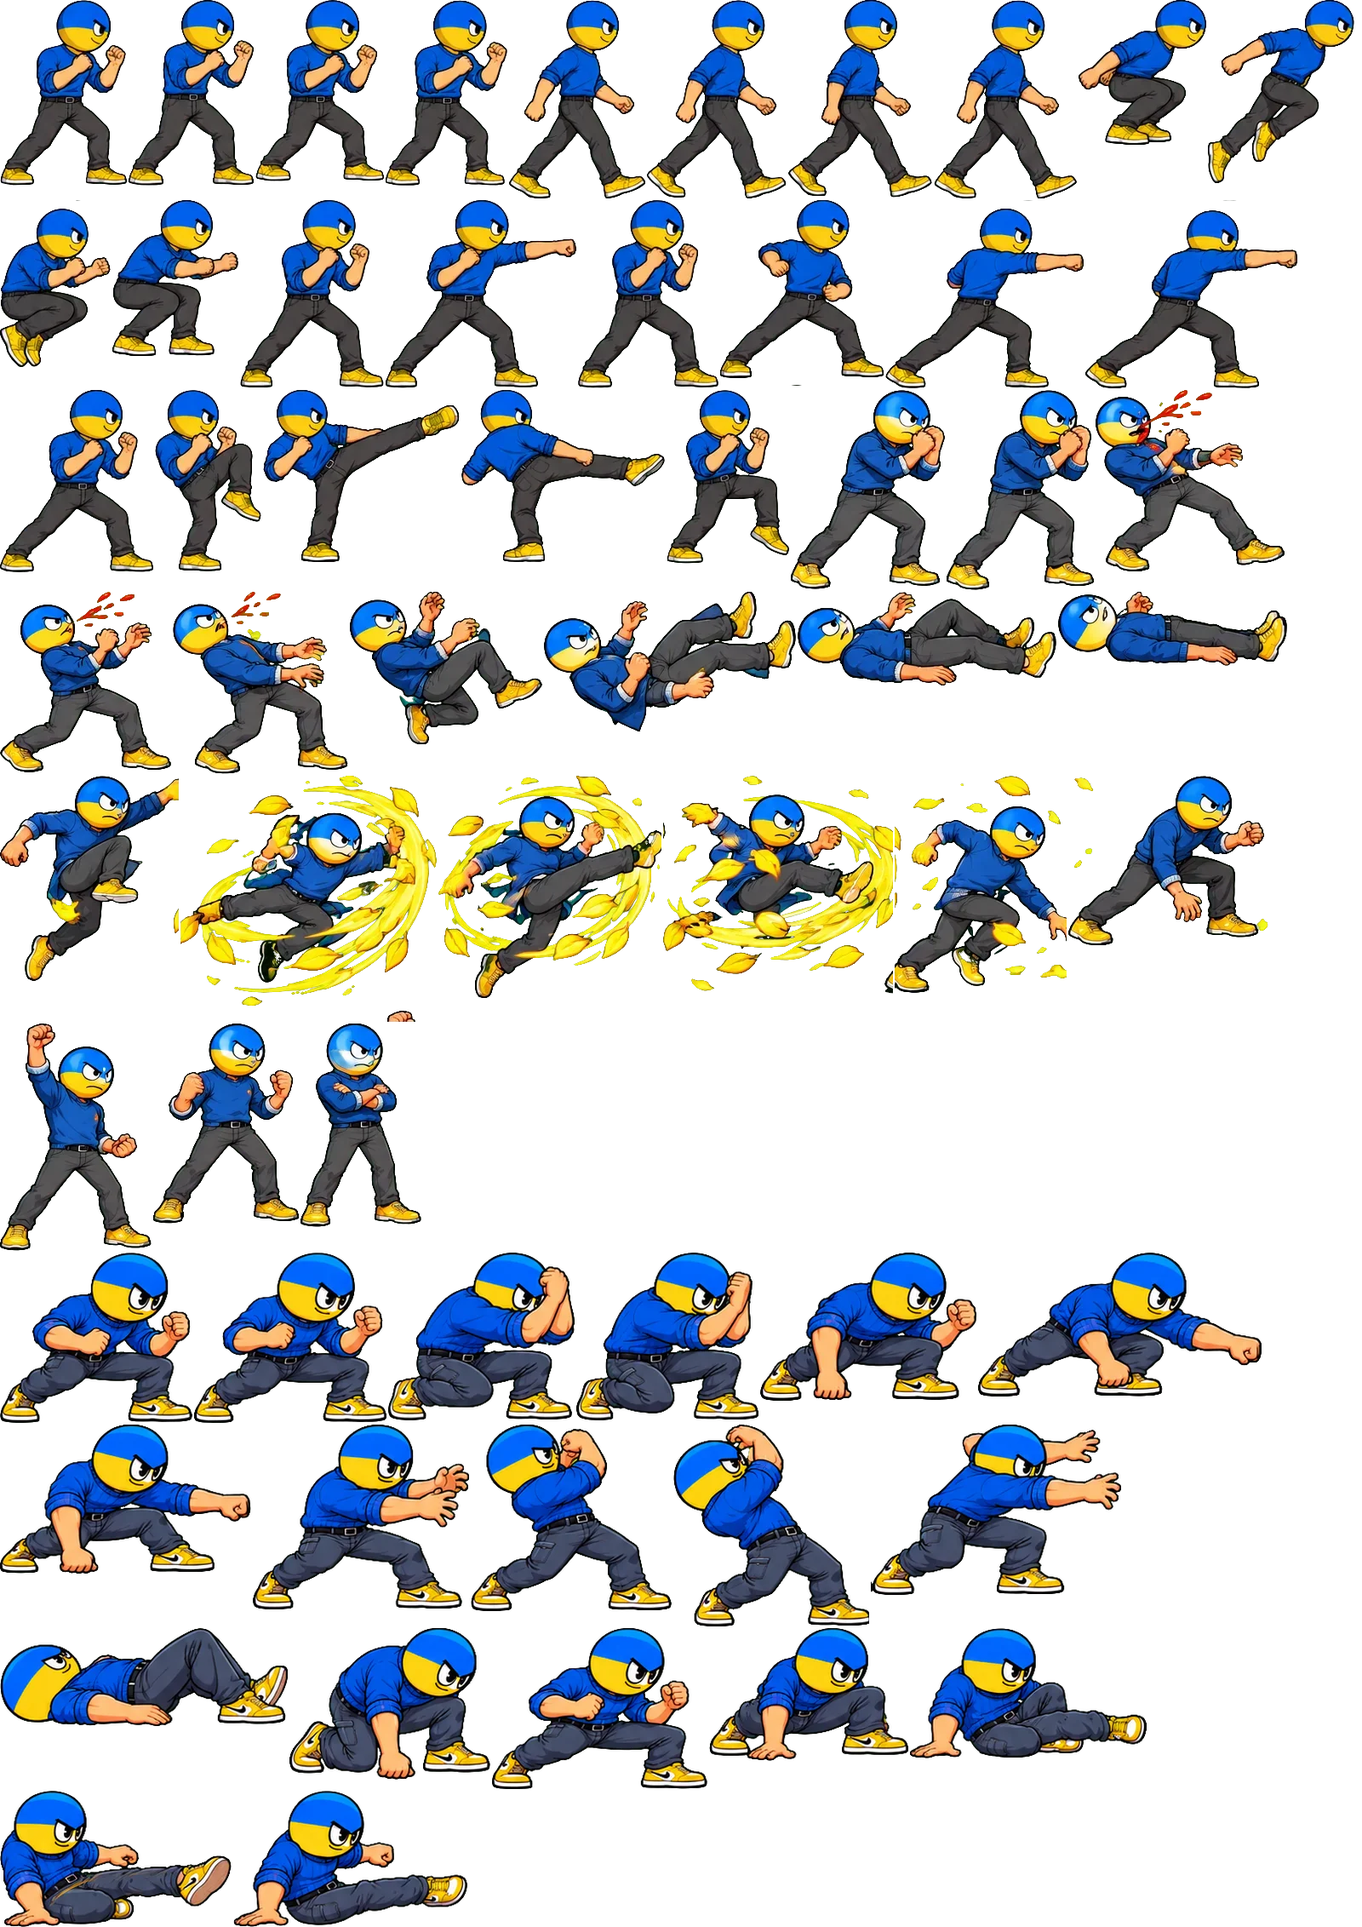
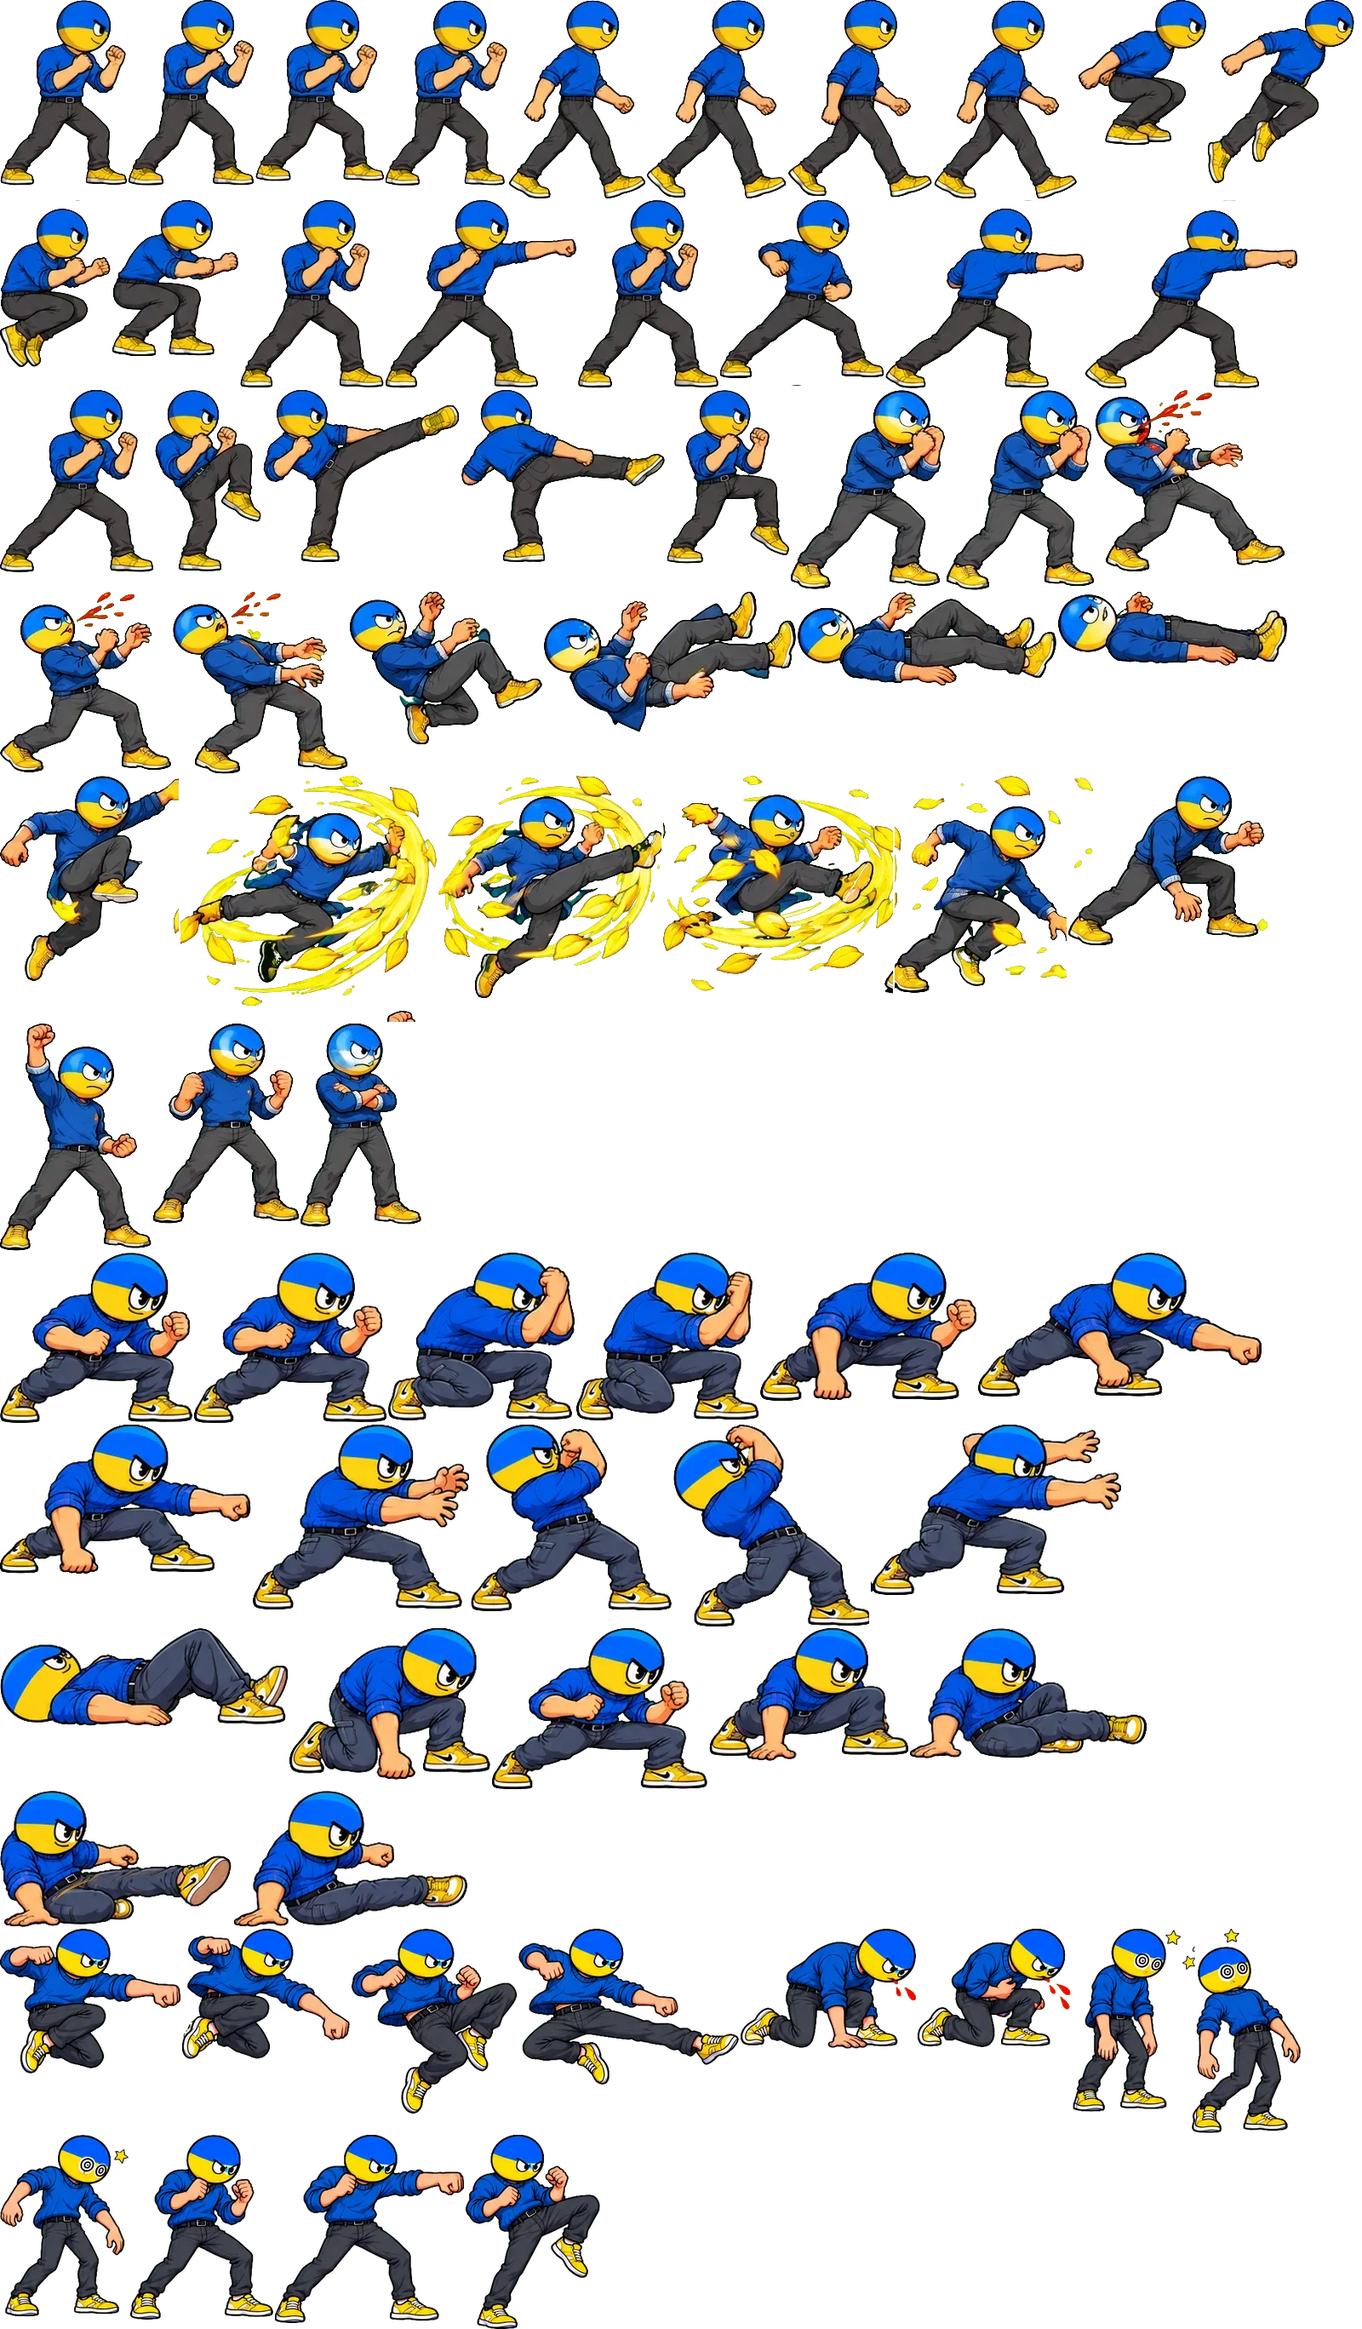
Presidents Brawl: Mister Ukraine jump attacks, crouch hit, dizzy and entrance frames
Claude-Session: https://claude.ai/code/session_01HtMgEDxgy3YeKCDKp7REeJ

diff --git a/brawl/index.html b/brawl/index.html
@@ -586,7 +586,7 @@ function addSprite(id,meta,b64,scale){const img=new Image();const o={img,meta,sc
 addSprite('usa',{"idle": [[0, 0, 165, 191, 74.1], [167, 0, 159, 189, 74.7], [328, 0, 153, 189, 71.9], [483, 0, 156, 190, 71.9]], "walk": [[641, 0, 177, 177, 81.5], [820, 0, 174, 178, 85.9], [996, 0, 169, 181, 79.5], [1167, 0, 170, 183, 82.2]], "jump": [[1339, 0, 163, 147, 84.9], [0, 193, 158, 167, 77.3], [160, 193, 168, 154, 84.4], [330, 193, 160, 148, 84.0]], "jab": [[492, 193, 176, 164, 83.5], [670, 193, 229, 163, 90.1], [901, 193, 172, 163, 82.0]], "heavy": [[1075, 193, 185, 164, 85.4], [1262, 193, 244, 160, 91.6], [0, 362, 253, 157, 95.8], [255, 362, 167, 163, 79.7]], "block": [[424, 362, 172, 194, 81.1], [598, 362, 170, 194, 80.4]], "hit": [[770, 362, 193, 192, 91.4], [965, 362, 225, 175, 148.0], [1192, 362, 235, 140, 117.5]], "ko": [[0, 558, 258, 166, 129.0], [260, 558, 260, 129, 130.0], [522, 558, 272, 95, 136.0], [796, 558, 285, 92, 142.5]], "super": [[1083, 558, 202, 196, 90.9], [1287, 558, 222, 193, 96.2], [0, 756, 239, 186, 120.8], [241, 756, 209, 218, 97.7], [452, 756, 286, 187, 98.4]], "win": [[1278, 1501, 132, 190, 60.7], [1412, 1501, 163, 200, 84.0], [0, 1703, 160, 187, 88.6]], "crouch": [[0, 976, 176, 143, 81.1], [178, 976, 172, 147, 75.4]], "cblock": [[352, 976, 166, 146, 79.0], [520, 976, 168, 143, 75.1]], "lowp": [[690, 976, 201, 128, 111.9], [893, 976, 227, 133, 126.7], [1122, 976, 268, 131, 128.5]], "grab": [[1392, 976, 172, 190, 96.2], [0, 1168, 186, 182, 71.2], [188, 1168, 220, 190, 74.2], [410, 1168, 258, 182, 115.7]], "getup": [[670, 1168, 297, 82, 134.4], [969, 1168, 229, 124, 114.4], [1200, 1168, 180, 151, 79.9]], "sweep": [[1382, 1168, 181, 142, 105.6], [0, 1360, 300, 138, 126.8], [302, 1360, 272, 138, 93.2], [576, 1360, 215, 139, 142.8]], "lkick": [[0, 1501, 132, 187, 70.2], [134, 1501, 210, 181, 71.3], [346, 1501, 142, 181, 66.4]], "kick": [[490, 1501, 167, 173, 76.9], [659, 1501, 170, 180, 80.3], [831, 1501, 228, 179, 93.5], [1061, 1501, 215, 172, 91.1]], "airp": [[0, 1892, 169, 157, 83.8], [171, 1892, 214, 148, 98.9]], "airk": [[387, 1892, 168, 176, 84.8], [557, 1892, 236, 168, 102.1]], "chit": [[795, 1892, 179, 131, 85.7], [976, 1892, 180, 129, 89.0]], "dizzy": [[1158, 1892, 182, 168, 83.6], [1342, 1892, 152, 176, 76.4], [0, 2070, 178, 171, 90.9]], "intro": [[180, 2070, 155, 190, 75.9], [337, 2070, 179, 193, 91.3], [518, 2070, 155, 189, 74.6]]},'img/usa.webp',0.74);
 addSprite('rus',{"idle": [[0, 0, 139, 152, 60.3], [141, 0, 134, 152, 59.1], [277, 0, 137, 152, 59.0], [416, 0, 126, 153, 40.9]], "walk": [[544, 0, 138, 152, 60.2], [684, 0, 136, 152, 58.6], [822, 0, 138, 153, 57.9], [962, 0, 147, 153, 67.7]], "jump": [[1111, 0, 140, 136, 75.8], [1253, 0, 142, 147, 68.6], [1397, 0, 130, 137, 64.2], [0, 155, 124, 144, 52.0]], "jab": [[126, 155, 148, 152, 60.6], [276, 155, 170, 152, 66.5], [448, 155, 153, 151, 71.2]], "block": [[338, 310, 102, 159, 46.8], [442, 310, 125, 159, 58.4]], "hit": [[569, 310, 140, 150, 79.3], [711, 310, 181, 137, 120.5], [894, 310, 175, 144, 100.4]], "ko": [[1071, 310, 214, 98, 97.4], [1287, 310, 209, 82, 93.8], [0, 478, 226, 59, 102.5], [228, 478, 226, 59, 102.5]], "super": [[400, 851, 199, 156, 100.4], [602, 478, 190, 152, 114.6], [794, 478, 168, 140, 88.2], [964, 478, 199, 166, 100.2], [1165, 478, 175, 184, 73.1], [1342, 478, 221, 181, 94.1]], "win": [[0, 664, 107, 185, 51.3], [109, 664, 103, 185, 48.0], [214, 664, 104, 185, 49.2]], "sweep": [[603, 155, 156, 135, 68.6], [761, 155, 176, 139, 76.9], [939, 155, 157, 139, 92.6], [1098, 155, 125, 140, 69.7]], "kick": [[1225, 155, 168, 153, 72.5], [1395, 155, 140, 150, 64.9], [0, 310, 130, 119, 55.9], [132, 310, 204, 166, 120.8]], "crouch": [[0, 1009, 204, 142, 88.9], [206, 1009, 213, 143, 91.6]], "cblock": [[421, 1009, 178, 135, 72.1], [601, 1009, 157, 138, 68.3]], "lowp": [[760, 1009, 242, 115, 123.5], [1004, 1009, 255, 107, 128.0], [1261, 1009, 245, 114, 135.6]], "grab": [[0, 1154, 208, 152, 125.4], [210, 1154, 171, 147, 116.8], [383, 1154, 168, 148, 98.8], [553, 1154, 278, 145, 153.5]], "getup": [[833, 1154, 280, 86, 133.8], [1115, 1154, 188, 122, 95.7], [1305, 1154, 198, 145, 87.5]], "heavy": [[0, 1308, 133, 116, 52.5], [135, 1308, 133, 115, 52.0], [270, 1308, 138, 114, 49.1], [410, 1308, 147, 114, 65.1]], "airp": [[559, 1308, 127, 103, 54.6], [688, 1308, 124, 95, 55.3]], "airk": [[814, 1308, 129, 107, 61.0], [945, 1308, 156, 105, 59.8]], "chit": [[1103, 1308, 125, 79, 54.0], [1230, 1308, 112, 77, 43.1]], "dizzy": [[1344, 1308, 94, 134, 36.9], [1440, 1308, 90, 134, 41.5], [0, 1444, 110, 143, 54.7]], "intro": [[112, 1444, 88, 143, 32.1], [202, 1444, 103, 152, 48.0], [307, 1444, 142, 140, 66.1]]},'img/rus.webp',0.91);
 addSprite('tur',{"idle": [[0, 0, 139, 173, 66.9], [141, 0, 140, 174, 68.7], [283, 0, 139, 176, 67.0], [424, 0, 139, 173, 66.9]], "walk": [[565, 0, 163, 176, 87.3], [730, 0, 137, 177, 68.9], [869, 0, 172, 176, 70.7]], "jump": [[1043, 0, 125, 188, 66.2], [1170, 0, 169, 180, 75.5], [1341, 0, 125, 188, 66.2], [1468, 0, 125, 188, 66.2]], "jab": [[0, 190, 201, 174, 80.2], [203, 190, 263, 173, 97.6], [468, 190, 201, 174, 80.2]], "kick": [[671, 190, 158, 187, 78.6], [831, 190, 143, 180, 34.7], [976, 190, 177, 177, 56.1], [1155, 190, 158, 187, 78.6]], "block": [[1315, 190, 154, 177, 74.0], [0, 379, 149, 183, 69.4]], "hit": [[151, 379, 152, 192, 82.2], [305, 379, 191, 192, 110.1], [498, 379, 156, 174, 74.1]], "ko": [[656, 379, 220, 129, 92.4], [878, 379, 239, 108, 100.3], [1119, 379, 230, 98, 102.4], [0, 573, 258, 58, 117.5]], "super": [[260, 573, 192, 215, 13.6], [454, 573, 215, 207, 117.9], [671, 573, 160, 220, 29.6], [833, 573, 192, 224, 91.6], [1027, 573, 211, 216, 92.8], [1240, 573, 172, 200, 78.8]], "win": [[1414, 573, 104, 210, 48.7], [0, 799, 111, 219, 57.1], [113, 799, 120, 225, 63.1]], "crouch": [[0, 1026, 200, 153, 96.0], [202, 1026, 188, 152, 93.2]], "cblock": [[392, 1026, 187, 151, 80.6], [581, 1026, 166, 153, 74.7]], "lowp": [[749, 1026, 245, 117, 156.5], [996, 1026, 243, 113, 119.6], [1241, 1026, 213, 121, 111.4]], "grab": [[0, 1181, 218, 174, 121.9], [220, 1181, 198, 175, 73.7], [420, 1181, 179, 182, 55.6], [601, 1181, 177, 188, 71.7], [780, 1181, 274, 150, 151.4]], "getup": [[1056, 1181, 279, 88, 137.8], [1337, 1181, 197, 102, 101.2], [0, 1371, 198, 105, 105.6], [200, 1371, 179, 115, 102.8]], "sweep": [[381, 1371, 226, 122, 93.9], [609, 1371, 263, 117, 71.5], [874, 1371, 223, 118, 64.8], [1099, 1371, 233, 119, 85.8], [1334, 1371, 173, 128, 80.4]], "heavy": [[0, 1501, 146, 145, 64.6], [148, 1501, 133, 141, 25.2], [283, 1501, 210, 125, 60.9], [495, 1501, 170, 106, 67.3]], "airp": [[667, 1501, 141, 104, 59.5], [810, 1501, 134, 93, 60.7]], "airk": [[946, 1501, 142, 126, 68.3], [1090, 1501, 188, 118, 69.2]], "chit": [[1280, 1501, 143, 94, 63.2], [1425, 1501, 123, 91, 50.8]], "dizzy": [[0, 1648, 86, 178, 36.9], [88, 1648, 102, 180, 48.0], [192, 1648, 129, 168, 72.7]], "intro": [[323, 1648, 104, 175, 50.5], [429, 1648, 104, 177, 49.0], [535, 1648, 150, 174, 73.0]]},'img/tur.webp',0.94);
-addSprite('ukr',{"idle": [[0, 0, 149, 218, 71.3], [151, 0, 147, 218, 69.4], [300, 0, 151, 213, 71.6], [453, 0, 143, 218, 65.8]], "walk": [[598, 0, 160, 233, 76.9], [760, 0, 164, 233, 80.2], [926, 0, 169, 232, 83.2], [1097, 0, 168, 233, 81.0]], "jump": [[1267, 0, 150, 170, 79.9], [1419, 0, 172, 215, 86.2], [0, 235, 130, 196, 54.5], [132, 235, 148, 183, 65.7]], "jab": [[282, 235, 169, 220, 82.6], [453, 235, 224, 221, 88.1], [679, 235, 165, 221, 80.0]], "heavy": [[846, 235, 192, 218, 95.6], [1040, 235, 233, 221, 92.3], [1275, 235, 249, 221, 97.6], [0, 458, 180, 214, 88.0]], "kick": [[182, 458, 125, 213, 50.0], [309, 458, 231, 202, 66.9], [542, 458, 239, 202, 76.3], [783, 458, 144, 204, 59.7]], "block": [[929, 458, 181, 234, 83.0], [1112, 458, 173, 235, 80.9]], "hit": [[1287, 458, 222, 213, 110.2], [0, 695, 201, 212, 95.1], [203, 695, 206, 214, 109.3]], "ko": [[411, 695, 226, 179, 98.6], [639, 695, 296, 164, 138.8], [937, 695, 304, 110, 145.5], [1243, 695, 269, 87, 123.3]], "super": [[0, 911, 210, 241, 50.2], [212, 911, 301, 289, 152.1], [515, 911, 262, 261, 73.5], [779, 911, 270, 256, 142.3], [1051, 911, 202, 255, 65.4], [1255, 911, 235, 199, 109.6]], "win": [[0, 1202, 178, 267, 86.3], [180, 1202, 171, 235, 84.3], [353, 1202, 142, 239, 67.9]], "crouch": [[0, 1471, 226, 200, 113.9], [228, 1471, 226, 200, 112.5]], "cblock": [[456, 1471, 219, 197, 102.0], [677, 1471, 214, 197, 100.2]], "lowp": [[893, 1471, 254, 174, 165.3], [1149, 1471, 333, 169, 191.6], [0, 1673, 295, 175, 149.0]], "grab": [[297, 1673, 254, 217, 151.4], [553, 1673, 236, 219, 86.3], [791, 1673, 230, 237, 68.5], [1023, 1673, 294, 200, 178.1]], "getup": [[0, 1912, 338, 115, 163.2], [340, 1912, 236, 178, 113.9], [578, 1912, 253, 189, 127.6]], "sweep": [[833, 1912, 234, 156, 140.3], [1069, 1912, 278, 153, 104.6], [0, 2103, 272, 160, 59.2], [274, 2103, 275, 160, 108.9]]},'img/ukr.webp',0.64);
+addSprite('ukr',{"idle": [[0, 0, 149, 218, 71.3], [151, 0, 147, 218, 69.4], [300, 0, 151, 213, 71.6], [453, 0, 143, 218, 65.8]], "walk": [[598, 0, 160, 233, 76.9], [760, 0, 164, 233, 80.2], [926, 0, 169, 232, 83.2], [1097, 0, 168, 233, 81.0]], "jump": [[1267, 0, 150, 170, 79.9], [1419, 0, 172, 215, 86.2], [0, 235, 130, 196, 54.5], [132, 235, 148, 183, 65.7]], "jab": [[282, 235, 169, 220, 82.6], [453, 235, 224, 221, 88.1], [679, 235, 165, 221, 80.0]], "heavy": [[846, 235, 192, 218, 95.6], [1040, 235, 233, 221, 92.3], [1275, 235, 249, 221, 97.6], [0, 458, 180, 214, 88.0]], "kick": [[182, 458, 125, 213, 50.0], [309, 458, 231, 202, 66.9], [542, 458, 239, 202, 76.3], [783, 458, 144, 204, 59.7]], "block": [[929, 458, 181, 234, 83.0], [1112, 458, 173, 235, 80.9]], "hit": [[1287, 458, 222, 213, 110.2], [0, 695, 201, 212, 95.1], [203, 695, 206, 214, 109.3]], "ko": [[411, 695, 226, 179, 98.6], [639, 695, 296, 164, 138.8], [937, 695, 304, 110, 145.5], [1243, 695, 269, 87, 123.3]], "super": [[0, 911, 210, 241, 50.2], [212, 911, 301, 289, 152.1], [515, 911, 262, 261, 73.5], [779, 911, 270, 256, 142.3], [1051, 911, 202, 255, 65.4], [1255, 911, 235, 199, 109.6]], "win": [[0, 1202, 178, 267, 86.3], [180, 1202, 171, 235, 84.3], [353, 1202, 142, 239, 67.9]], "crouch": [[0, 1471, 226, 200, 113.9], [228, 1471, 226, 200, 112.5]], "cblock": [[456, 1471, 219, 197, 102.0], [677, 1471, 214, 197, 100.2]], "lowp": [[893, 1471, 254, 174, 165.3], [1149, 1471, 333, 169, 191.6], [0, 1673, 295, 175, 149.0]], "grab": [[297, 1673, 254, 217, 151.4], [553, 1673, 236, 219, 86.3], [791, 1673, 230, 237, 68.5], [1023, 1673, 294, 200, 178.1]], "getup": [[0, 1912, 338, 115, 163.2], [340, 1912, 236, 178, 113.9], [578, 1912, 253, 189, 127.6]], "sweep": [[833, 1912, 234, 156, 140.3], [1069, 1912, 278, 153, 104.6], [0, 2103, 272, 160, 59.2], [274, 2103, 275, 160, 108.9]], "airp": [[0, 2265, 212, 170, 86.2], [214, 2265, 197, 153, 76.7]], "airk": [[413, 2265, 194, 217, 97.8], [609, 2265, 259, 183, 96.8]], "chit": [[870, 2265, 206, 141, 90.4], [1078, 2265, 180, 139, 73.1]], "dizzy": [[1260, 2265, 127, 215, 50.5], [1389, 2265, 139, 240, 63.5], [0, 2507, 151, 213, 68.8]], "intro": [[153, 2507, 168, 217, 81.6], [323, 2507, 222, 221, 95.7], [547, 2507, 158, 228, 36.5]]},'img/ukr.webp',0.64);
 addSprite('irn',{"idle": [[0, 0, 128, 165, 62.2], [130, 0, 130, 164, 61.8], [262, 0, 125, 164, 59.2], [389, 0, 130, 164, 61.8]], "walk": [[521, 0, 125, 163, 59.7], [648, 0, 128, 164, 60.3], [778, 0, 137, 164, 61.7]], "jump": [[917, 0, 135, 162, 69.1], [1054, 0, 110, 168, 54.9], [1166, 0, 108, 160, 51.8], [1276, 0, 130, 161, 62.0]], "jab": [[1408, 0, 176, 167, 69.1], [0, 170, 202, 166, 75.8], [204, 170, 176, 167, 69.1]], "heavy": [[382, 170, 172, 166, 67.5], [556, 170, 157, 164, 62.9], [715, 170, 150, 160, 63.7], [867, 170, 177, 158, 69.9]], "kick": [[1046, 170, 166, 168, 55.1], [1214, 170, 151, 181, 51.3], [1367, 170, 146, 176, 53.7], [0, 353, 130, 163, 66.1]], "block": [[132, 353, 134, 163, 67.1], [268, 353, 122, 162, 58.5]], "hit": [[392, 353, 139, 164, 72.3], [533, 353, 160, 153, 86.8], [695, 353, 142, 161, 80.7]], "ko": [[839, 353, 198, 109, 94.3], [1039, 353, 211, 91, 96.7], [1252, 353, 199, 77, 94.9], [0, 519, 248, 66, 115.6]], "super": [[250, 519, 122, 156, 66.6], [374, 519, 232, 128, 84.0], [608, 519, 214, 117, 83.8], [824, 519, 228, 109, 95.6], [1054, 519, 225, 109, 95.6], [1281, 519, 214, 106, 66.8], [0, 677, 146, 150, 36.7]], "win": [[148, 677, 87, 166, 41.0], [237, 677, 87, 166, 40.7], [326, 677, 87, 166, 42.6]], "crouch": [[0, 845, 168, 135, 81.2], [170, 845, 159, 137, 76.5]], "cblock": [[331, 845, 158, 135, 75.5], [491, 845, 158, 136, 76.1]], "lowp": [[651, 845, 217, 108, 140.0], [870, 845, 258, 111, 161.4], [1130, 845, 182, 113, 117.4]], "grab": [[1314, 845, 192, 164, 117.8], [0, 1011, 174, 159, 72.4], [176, 1011, 169, 160, 60.6], [347, 1011, 154, 174, 83.7], [503, 1011, 254, 140, 145.1]], "getup": [[759, 1011, 254, 91, 119.1], [1015, 1011, 194, 105, 100.7], [1211, 1011, 161, 112, 89.4], [1374, 1011, 150, 113, 72.7]], "sweep": [[0, 1187, 194, 118, 88.7], [196, 1187, 234, 113, 67.0], [432, 1187, 219, 115, 56.9], [653, 1187, 217, 123, 95.2], [872, 1187, 166, 124, 84.3]]},'img/irn.webp',0.85);
 addSprite('qat',{"idle": [[0, 0, 143, 176, 68.4], [145, 0, 145, 176, 69.9], [292, 0, 149, 177, 70.6], [443, 0, 145, 176, 69.9]], "walk": [[590, 0, 157, 174, 81.0], [749, 0, 131, 175, 63.9], [882, 0, 172, 177, 76.6]], "jump": [[1056, 0, 166, 184, 77.7], [1224, 0, 108, 186, 61.5], [1334, 0, 137, 168, 71.1], [0, 188, 132, 175, 69.5]], "jab": [[134, 188, 204, 182, 74.5], [340, 188, 258, 178, 95.7], [600, 188, 204, 182, 74.5]], "heavy": [[806, 188, 191, 178, 85.8], [999, 188, 165, 178, 76.9], [1166, 188, 165, 172, 74.4], [1333, 188, 208, 163, 88.6]], "kick": [[0, 372, 177, 177, 59.4], [179, 372, 154, 194, 36.5], [335, 372, 147, 197, 44.2], [484, 372, 164, 181, 79.7]], "block": [[650, 372, 152, 180, 72.2], [804, 372, 156, 183, 72.5]], "hit": [[962, 372, 153, 165, 84.2], [1117, 372, 175, 163, 96.2], [1294, 372, 171, 167, 97.3]], "ko": [[0, 571, 218, 119, 103.9], [220, 571, 229, 129, 110.2], [451, 571, 232, 112, 110.5], [685, 571, 256, 72, 119.8]], "super": [[943, 571, 167, 167, 101.0], [1112, 571, 201, 173, 94.5], [1315, 571, 181, 174, 79.7], [0, 747, 177, 178, 64.1], [179, 747, 310, 119, 167.8], [491, 747, 210, 119, 99.1], [703, 747, 191, 165, 81.2]], "win": [[896, 747, 123, 162, 57.4], [1021, 747, 118, 155, 55.8], [1141, 747, 123, 156, 60.5]], "crouch": [[0, 927, 189, 147, 88.8], [191, 927, 190, 149, 88.6]], "cblock": [[383, 927, 194, 147, 84.6], [579, 927, 165, 147, 79.5]], "lowp": [[746, 927, 236, 113, 149.3], [984, 927, 296, 111, 172.4], [1282, 927, 229, 115, 128.7]], "grab": [[0, 1078, 202, 176, 102.0], [204, 1078, 206, 175, 82.7], [412, 1078, 187, 179, 58.3], [601, 1078, 174, 186, 83.2], [777, 1078, 267, 143, 149.9]], "getup": [[1046, 1078, 282, 95, 138.8], [1330, 1078, 204, 106, 104.8], [0, 1266, 192, 112, 105.8], [194, 1266, 186, 117, 97.3]], "sweep": [[382, 1266, 227, 124, 100.1], [611, 1266, 283, 122, 85.1], [896, 1266, 236, 116, 71.8], [1134, 1266, 232, 124, 95.6], [1368, 1266, 182, 129, 90.8]]},'img/qat.webp',0.8);
 addSprite('eu',{"idle": [[0, 0, 104, 176, 50.3], [106, 0, 104, 175, 50.6], [212, 0, 107, 175, 51.8], [321, 0, 110, 176, 52.9]], "walk": [[433, 0, 105, 175, 49.6], [540, 0, 122, 175, 60.0], [664, 0, 116, 174, 56.5], [782, 0, 124, 175, 61.2], [908, 0, 121, 177, 59.6]], "jump": [[1031, 0, 98, 163, 52.4], [1131, 0, 105, 149, 51.9], [1238, 0, 97, 148, 47.7], [1337, 0, 103, 148, 54.0]], "jab": [[1442, 0, 112, 166, 50.3], [0, 179, 143, 162, 49.4], [145, 179, 112, 166, 50.3]], "heavy": [[259, 179, 127, 164, 43.2], [388, 179, 129, 163, 44.2], [519, 179, 135, 164, 46.4], [656, 179, 127, 166, 52.2]], "kick": [[785, 179, 123, 160, 34.4], [910, 179, 135, 158, 43.0], [1047, 179, 131, 154, 49.0], [1180, 179, 157, 138, 58.8]], "block": [[1339, 179, 93, 160, 42.4], [1434, 179, 92, 161, 44.1]], "hit": [[0, 347, 109, 148, 58.4], [111, 347, 110, 145, 63.5], [223, 347, 112, 144, 62.8]], "ko": [[337, 347, 147, 134, 60.4], [486, 347, 159, 100, 74.7], [647, 347, 160, 58, 72.5], [809, 347, 166, 51, 72.7]], "super": [[977, 347, 98, 145, 45.3], [1077, 347, 134, 146, 54.0], [1213, 347, 176, 140, 55.9], [0, 497, 243, 137, 51.5], [245, 497, 262, 141, 52.3]], "proj": [[509, 497, 136, 89, 50.7]], "win": [[647, 497, 66, 127, 37.6], [715, 497, 68, 128, 30.4], [785, 497, 60, 125, 24.8]], "crouch": [[0, 640, 160, 152, 74.4], [162, 640, 165, 153, 73.2]], "cblock": [[329, 640, 165, 151, 71.9], [496, 640, 156, 152, 58.5]], "lowp": [[654, 640, 232, 111, 155.4], [888, 640, 293, 113, 186.3], [1183, 640, 212, 119, 127.8]], "grab": [[0, 795, 205, 176, 101.3], [207, 795, 193, 177, 50.3], [402, 795, 182, 176, 46.3], [586, 795, 186, 186, 67.4], [774, 795, 256, 152, 148.9]], "getup": [[1032, 795, 264, 89, 116.2], [1298, 795, 191, 106, 96.6], [0, 983, 173, 112, 97.7], [175, 983, 172, 121, 98.4]], "sweep": [[349, 983, 210, 119, 84.5], [561, 983, 266, 117, 74.4], [829, 983, 226, 117, 55.1], [1057, 983, 221, 119, 72.4], [1280, 983, 166, 126, 71.9]]},'img/eu.webp',0.77);
